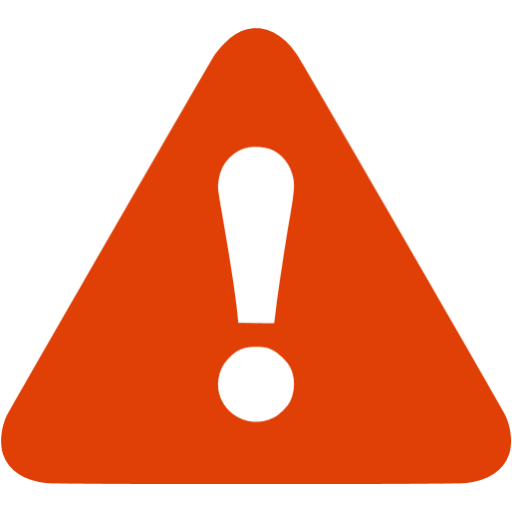
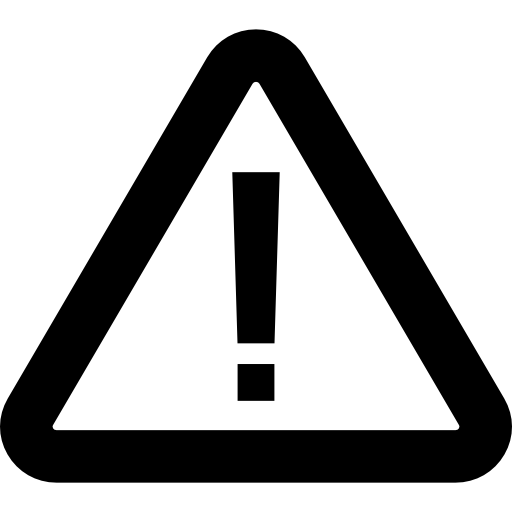
Error pages updated, More parameters added to md slug page

diff --git a/src/routes/blog/[slug]/+page.svelte b/src/routes/blog/[slug]/+page.svelte
@@ -7,6 +7,11 @@
         <h1>{data.title}</h1>
         <div class="date">Published: {data.date}</div>
         <div>{data.publisher}</div>
+        <div class="article-tags">
+            {#each data.categories as category}
+	    		<span class="surface-4">&num;{category}</span>
+		    {/each}
+        </div>
     </div>
     <div class="article-text">
         <svelte:component this={data.content} />
@@ -15,9 +20,7 @@
 
 <style lang="scss">
     
-    ul {
-        list-style-type: circle;
-    }
+
     article {
         // background-color: lightgray;
         padding: 20px;
@@ -36,9 +39,17 @@
         .article-text {
             margin-top: 20px;
         }
+
+        .article-tags {
+            display: flex;
+            gap: var(--size-3);
+            margin-top: var(--size-7);
+	    }
+
+        .article-tags > * {
+            padding: var(--size-2) var(--size-3);
+            border-radius: var(--radius-round);
+        }
     }
 
-    code {
-        background-color: lightgray;
-    }
 </style>

diff --git a/src/routes/blog/[slug]/+page.ts b/src/routes/blog/[slug]/+page.ts
@@ -5,14 +5,15 @@ export const load: PageLoad = async ({ params }) => {
     try {
         const blogPost = await import(`../${params.slug}.md`);
         console.log(blogPost.metadata);
-        const { title, date, publisher } = blogPost.metadata;
+        const { title, date, publisher, categories } = blogPost.metadata;
         const content = blogPost.default;
 
         return {
             content, 
             title,
             date,
-            publisher
+            publisher,
+            categories
         };
     } catch (ex: any) {
         throw error(404, {

diff --git a/src/routes/+error.svelte b/src/routes/+error.svelte
@@ -2,16 +2,11 @@
     import { page } from '$app/stores';
 </script>
 
-
-
-        <div class="error-msg">
-            <!-- <img src="error.png" alt="error"/> -->
-            <h1>Upps an error occured</h1>
-            <h1>{$page.error.message}</h1>
-        </div>
-
-    
-
+<div class="error-msg">
+    <img src="error.png" alt="error"/>
+    <h1>Upps an error occured</h1>
+    <h1>{$page.error.message}</h1>
+</div>
 
 <style lang="scss">
     .error-msg {

diff --git a/src/lib/css/custom_style.scss b/src/lib/css/custom_style.scss
@@ -20,7 +20,3 @@ html, body {
     text-align: center;
     margin-bottom: 20px;
 }
-
-main {
-    // margin: 40px 100px;
-}

diff --git a/src/routes/blog/HTCWDB.md b/src/routes/blog/HTCWDB.md
@@ -3,6 +3,9 @@ title: How to create Web design business
 date: '2024-01-01'
 subtext: 'This would be my approche for creating a web design business'
 publisher: 'Thomas Hudson-Zaußnig'
+categories: 
+    - business
+    - webdesign
 ---
 
 ## Create a Business plan

diff --git a/src/routes/blog/WebsiteAndBeyond.md b/src/routes/blog/WebsiteAndBeyond.md
@@ -3,6 +3,9 @@ title: Website and beyond
 date: '2024-01-01'
 subtext: 'This would be my approche for creating a web design business'
 publisher: 'Thomas Hudson-Zaußnig'
+categories: 
+    - business
+    - webdesign
 ---
 
 # Website and Beyond

diff --git a/src/routes/blog/github.md b/src/routes/blog/github.md
@@ -3,6 +3,9 @@ title: Important GitHub commands
 date: '2024-01-01'
 subtext: 'This would be my approche for creating a web design business'
 publisher: 'Thomas Hudson-Zaußnig'
+categories: 
+    - business
+    - webdesign
 ---
 
 # GIT

diff --git a/src/routes/blog/Webdesigner.md b/src/routes/blog/Webdesigner.md
@@ -3,6 +3,9 @@ title: Webdesigner
 date: '2024-01-01'
 subtext: 'This would be my approche for creating a web design business'
 publisher: 'Thomas Hudson-Zaußnig'
+categories: 
+    - business
+    - webdesign
 ---
 
 # WebDesigner
